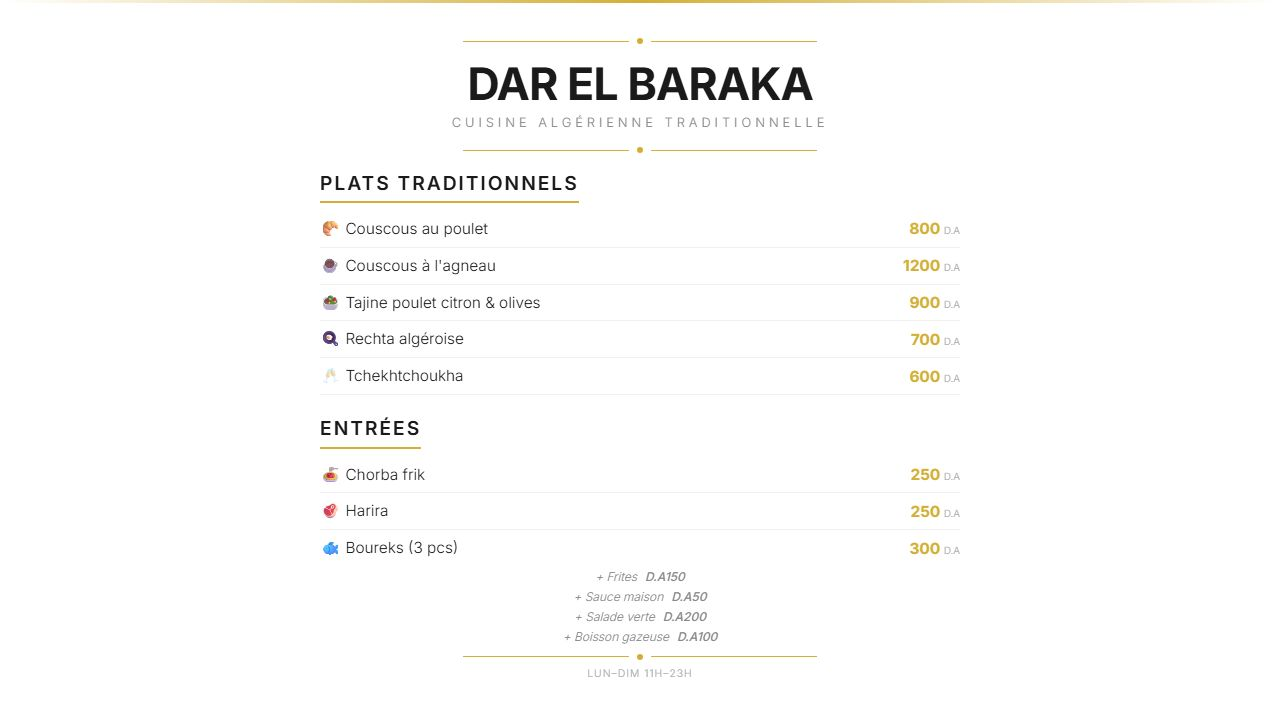
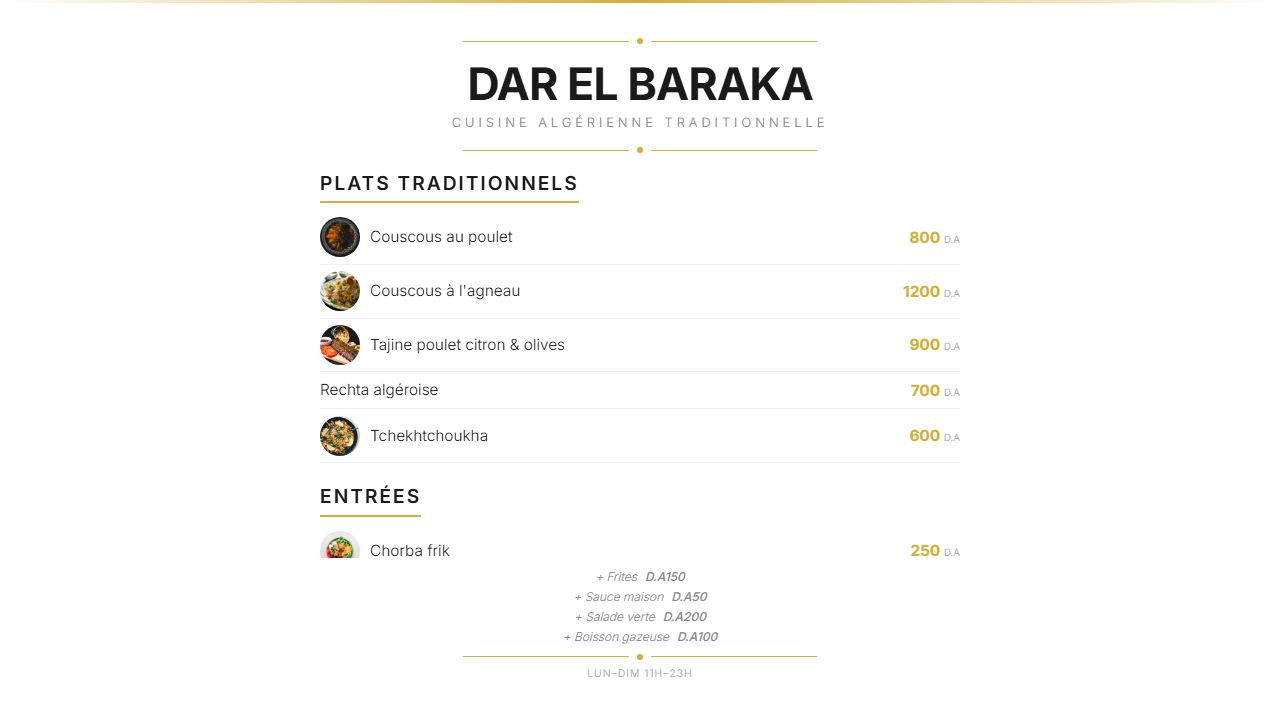
feat(shots): regenerate layout preview thumbnails including photoGrid, parchment, and digitalBoard

diff --git a/tv-display/src/sampleMenu.js b/tv-display/src/sampleMenu.js
@@ -13,25 +13,101 @@ export const sampleMenu = {
   heroLabel: 'Spécialité de la maison',
   allergyNote: 'Allergènes : gluten, lait, fruits à coque',
   pricingNote: 'Prix en D.A — service compris',
+  boardConfig: {
+    slots: [
+      {
+        title: 'برجر كلاسيك فاخر',
+        subtitle: 'Classic Burger Gourmet',
+        price: '650',
+        imageUrl: 'https://images.unsplash.com/photo-1568901346375-23c9450c58cd?w=800&auto=format&fit=crop&q=80',
+        priceType: 'single',
+      },
+      {
+        title: 'بيتزا مارغريتا إيطالية',
+        subtitle: 'Pizza Margherita',
+        price: '750',
+        imageUrl: 'https://images.unsplash.com/photo-1604382355076-af4b0eb60143?w=800&auto=format&fit=crop&q=80',
+        priceType: 'single',
+      },
+      {
+        title: 'سندويش بانيني دجاج',
+        subtitle: 'Panini Poulet Grillé',
+        price: '450',
+        imageUrl: 'https://images.unsplash.com/photo-1528735602780-2552fd46c7af?w=800&auto=format&fit=crop&q=80',
+        priceType: 'single',
+      },
+      {
+        title: 'تاكوس فرنسي الأصيل',
+        subtitle: 'French Tacos Spécial',
+        price: '550',
+        imageUrl: 'https://images.unsplash.com/photo-1565299585323-38d6b0865b47?w=800&auto=format&fit=crop&q=80',
+        priceType: 'single',
+      },
+      {
+        title: 'مشاوي مشكلة فاخرة',
+        subtitle: 'Brochettes Mixtes Grillées',
+        imageUrl: 'https://images.unsplash.com/photo-1555939594-58d7cb561ad1?w=800&auto=format&fit=crop&q=80',
+        priceType: 'multiple',
+        priceRows: [
+          { label: 'سياخ لحم غنم', price: '900' },
+          { label: 'سياخ دجاج متبل', price: '700' },
+          { label: 'طبق عائلي مشكل', price: '1600' },
+        ],
+      },
+      {
+        title: 'دجاج محمر مع بطاطا',
+        subtitle: 'Poulet Rôti & Frites',
+        imageUrl: 'https://images.unsplash.com/photo-1598103442097-8b74394b95c6?w=800&auto=format&fit=crop&q=80',
+        priceType: 'multiple',
+        priceRows: [
+          { label: 'ربع دجاجة محمرة', price: '350' },
+          { label: 'نصف دجاجة محمرة', price: '650' },
+          { label: 'دجاجة كاملة عائلية', price: '1200' },
+        ],
+      },
+      {
+        title: 'شاورما عربي سبيسيال',
+        subtitle: 'Shawarma Royale',
+        imageUrl: 'https://images.unsplash.com/photo-1633321702518-7feccafb94d5?w=800&auto=format&fit=crop&q=80',
+        priceType: 'multiple',
+        priceRows: [
+          { label: 'سندويش عادي', price: '300' },
+          { label: 'سندويش دوبل جبن', price: '400' },
+          { label: 'صحن عربي مع مقبلات', price: '750' },
+        ],
+      },
+      {
+        title: 'بطاطا مقلية مقرمشة',
+        subtitle: 'Frites & Sauces Maison',
+        imageUrl: 'https://images.unsplash.com/photo-1576107232684-1279f3908594?w=800&auto=format&fit=crop&q=80',
+        priceType: 'multiple',
+        priceRows: [
+          { label: 'حجم متوسط', price: '150' },
+          { label: 'حجم كبير مع جبن', price: '250' },
+          { label: 'بوكس عائلي سبيسيال', price: '450' },
+        ],
+      },
+    ],
+  },
   categories: [
     {
       name: 'Plats Traditionnels',
       items: [
-        { name: 'Couscous au poulet', price: '800', description: 'Semoule, poulet fermier, légumes de saison', tag: 'Best Seller' },
-        { name: "Couscous à l'agneau", price: '1200', description: 'Agneau fondant, pois chiches, bouillon parfumé', tag: 'Signature' },
-        { name: 'Tajine poulet citron & olives', price: '900', description: 'Poulet confit, citron confit, olives vertes' },
-        { name: 'Rechta algéroise', price: '700', description: 'Pâtes fraîches, poulet, pois chiches, cannelle' },
-        { name: 'Tchekhtchoukha', price: '600', description: 'Pain déchiré, sauce tomate relevée, poivrons' },
+        { name: 'Couscous au poulet', price: '800', description: 'Semoule, poulet fermier, légumes de saison', tag: 'Best Seller', imageUrl: 'https://images.unsplash.com/photo-1541518763669-27fef04b14ea?w=800&q=80' },
+        { name: "Couscous à l'agneau", price: '1200', description: 'Agneau fondant, pois chiches, bouillon parfumé', tag: 'Signature', imageUrl: 'https://images.unsplash.com/photo-1589302168068-964664d93dc0?w=800&q=80' },
+        { name: 'Tajine poulet citron & olives', price: '900', description: 'Poulet confit, citron confit, olives vertes', imageUrl: 'https://images.unsplash.com/photo-1544025162-d76694265947?w=800&q=80' },
+        { name: 'Rechta algéroise', price: '700', description: 'Pâtes fraîches, poulet, pois chiches, cannelle', imageUrl: 'https://images.unsplash.com/photo-1621996346565-e3d5d6281691?w=800&q=80' },
+        { name: 'Tchekhtchoukha', price: '600', description: 'Pain déchiré, sauce tomate relevée, poivrons', imageUrl: 'https://images.unsplash.com/photo-1512058564366-18510be2db19?w=800&q=80' },
       ],
     },
     {
       name: 'Entrées',
       items: [
-        { name: 'Chorba frik', price: '250', description: 'Soupe au blé vert, tomate, coriandre' },
-        { name: 'Harira', price: '250', description: 'Soupe algéroise aux herbes et légumes' },
-        { name: 'Boureks (3 pcs)', price: '300', description: 'Feuilletés croustillants à la viande' },
-        { name: 'Mhadjeb', price: '150', description: 'Crêpe feuilletée farcie à l’oignon et tomate' },
-        { name: 'Salade mechouia', price: '200', description: 'Poivrons grillés, tomates, ail, huile d’olive' },
+        { name: 'Chorba frik', price: '250', description: 'Soupe au blé vert, tomate, coriandre', imageUrl: 'https://images.unsplash.com/photo-1546069901-ba9599a7e63c?w=800&q=80' },
+        { name: 'Harira', price: '250', description: 'Soupe algéroise aux herbes et légumes', imageUrl: 'https://images.unsplash.com/photo-1547592166-23ac45744acd?w=800&q=80' },
+        { name: 'Boureks (3 pcs)', price: '300', description: 'Feuilletés croustillants à la viande', imageUrl: 'https://images.unsplash.com/photo-1633321702518-7feccafb94d5?w=800&q=80' },
+        { name: 'Mhadjeb', price: '150', description: 'Crêpe feuilletée farcie à l’oignon et tomate', imageUrl: 'https://images.unsplash.com/photo-1565299585323-38d6b0865b47?w=800&q=80' },
+        { name: 'Salade mechouia', price: '200', description: 'Poivrons grillés, tomates, ail, huile d’olive', imageUrl: 'https://images.unsplash.com/photo-1512621776951-a57141f2eefd?w=800&q=80' },
       ],
     },
     {
@@ -43,31 +119,31 @@ export const sampleMenu = {
         { name: 'Boisson gazeuse', price: '100' },
       ],
       items: [
-        { name: "Brochettes d'agneau", price: '1000', description: 'Brochettes marinées, servies avec pain' },
-        { name: 'Merguez grillées', price: '500', description: 'Merguez maison, harissa douce' },
-        { name: 'Poulet grillé', price: '850', description: 'Poulet entier mariné, frites maison' },
-        { name: 'Entrecôte grillée', price: '2000', description: 'Entrecôte charnue, sauce au poivre' },
-        { name: 'Kefta maison', price: '700', description: 'Boulettes de bœuf épicées, sauce tomate' },
+        { name: "Brochettes d'agneau", price: '1000', description: 'Brochettes marinées, servies avec pain', imageUrl: 'https://images.unsplash.com/photo-1555939594-58d7cb561ad1?w=800&q=80' },
+        { name: 'Merguez grillées', price: '500', description: 'Merguez maison, harissa douce', imageUrl: 'https://images.unsplash.com/photo-1555939594-58d7cb561ad1?w=800&q=80' },
+        { name: 'Poulet grillé', price: '850', description: 'Poulet entier mariné, frites maison', imageUrl: 'https://images.unsplash.com/photo-1598103442097-8b74394b95c6?w=800&q=80' },
+        { name: 'Entrecôte grillée', price: '2000', description: 'Entrecôte charnue, sauce au poivre', imageUrl: 'https://images.unsplash.com/photo-1558030006-450675393462?w=800&q=80' },
+        { name: 'Kefta maison', price: '700', description: 'Boulettes de bœuf épicées, sauce tomate', imageUrl: 'https://images.unsplash.com/photo-1529692236671-f1f6cf9683ba?w=800&q=80' },
       ],
     },
     {
       name: 'Sandwichs & Pizzas',
       items: [
-        { name: 'Burger maison', price: '600', description: 'Steak haché, cheddar, sauce algérienne' },
-        { name: 'Sandwich merguez-frites', price: '400', description: 'Merguez, frites, sauce maison' },
-        { name: 'Pizza margherita', price: '700', description: 'Tomate, mozzarella, basilic' },
-        { name: 'Calzone', price: '900', description: 'Pizza fourrée, jambon et fromage' },
-        { name: 'Wrap au poulet', price: '500', description: 'Poulet grillé, crudités, sauce blanche' },
+        { name: 'Burger maison', price: '600', description: 'Steak haché, cheddar, sauce algérienne', imageUrl: 'https://images.unsplash.com/photo-1568901346375-23c9450c58cd?w=800&q=80' },
+        { name: 'Sandwich merguez-frites', price: '400', description: 'Merguez, frites, sauce maison', imageUrl: 'https://images.unsplash.com/photo-1528735602780-2552fd46c7af?w=800&q=80' },
+        { name: 'Pizza margherita', price: '700', description: 'Tomate, mozzarella, basilic', imageUrl: 'https://images.unsplash.com/photo-1604382355076-af4b0eb60143?w=800&q=80' },
+        { name: 'Calzone', price: '900', description: 'Pizza fourrée, jambon et fromage', imageUrl: 'https://images.unsplash.com/photo-1513104890138-7c749659a591?w=800&q=80' },
+        { name: 'Wrap au poulet', price: '500', description: 'Poulet grillé, crudités, sauce blanche', imageUrl: 'https://images.unsplash.com/photo-1565299585323-38d6b0865b47?w=800&q=80' },
       ],
     },
     {
       name: 'Desserts & Boissons',
       items: [
-        { name: 'Baklawa', price: '300', description: 'Feuilleté aux amandes, miel' },
-        { name: 'Makrout', price: '250', description: 'Semoule, dattes, miel' },
-        { name: 'Crêpes au miel', price: '350', description: 'Crêpe chaude, miel, beurre' },
-        { name: 'Thé à la menthe', price: '150', description: 'Thé vert, menthe fraîche' },
-        { name: "Jus d'orange pressé", price: '300', description: 'Orange fraîche pressée' },
+        { name: 'Baklawa', price: '300', description: 'Feuilleté aux amandes, miel', imageUrl: 'https://images.unsplash.com/photo-1519869325930-281384150729?w=800&q=80' },
+        { name: 'Makrout', price: '250', description: 'Semoule, dattes, miel', imageUrl: 'https://images.unsplash.com/photo-1555507036-ab1f4038808a?w=800&q=80' },
+        { name: 'Crêpes au miel', price: '350', description: 'Crêpe chaude, miel, beurre', imageUrl: 'https://images.unsplash.com/photo-1584776296944-ab6fb57b0bdd?w=800&q=80' },
+        { name: 'Thé à la menthe', price: '150', description: 'Thé vert, menthe fraîche', imageUrl: 'https://images.unsplash.com/photo-1597481499750-3e6b22637e12?w=800&q=80' },
+        { name: "Jus d'orange pressé", price: '300', description: 'Orange fraîche pressée', imageUrl: 'https://images.unsplash.com/photo-1513558161293-cdaf765ed2fd?w=800&q=80' },
       ],
     },
   ],

diff --git a/tv-display/src/demo/demoData.js b/tv-display/src/demo/demoData.js
@@ -12,6 +12,82 @@ export const DEMO_MENU = {
   heroDescription: 'Thé vert royal infusé à la menthe fraîche et pignons.',
   heroLabel: 'Spécialité Maison',
   heroPrice: 150,
+  boardConfig: {
+    slots: [
+      {
+        title: 'برجر كلاسيك فاخر',
+        subtitle: 'Classic Burger Gourmet',
+        price: '650',
+        imageUrl: 'https://images.unsplash.com/photo-1568901346375-23c9450c58cd?w=800&auto=format&fit=crop&q=80',
+        priceType: 'single',
+      },
+      {
+        title: 'بيتزا مارغريتا إيطالية',
+        subtitle: 'Pizza Margherita',
+        price: '750',
+        imageUrl: 'https://images.unsplash.com/photo-1604382355076-af4b0eb60143?w=800&auto=format&fit=crop&q=80',
+        priceType: 'single',
+      },
+      {
+        title: 'سندويش بانيني دجاج',
+        subtitle: 'Panini Poulet Grillé',
+        price: '450',
+        imageUrl: 'https://images.unsplash.com/photo-1528735602780-2552fd46c7af?w=800&auto=format&fit=crop&q=80',
+        priceType: 'single',
+      },
+      {
+        title: 'تاكوس فرنسي الأصيل',
+        subtitle: 'French Tacos Spécial',
+        price: '550',
+        imageUrl: 'https://images.unsplash.com/photo-1565299585323-38d6b0865b47?w=800&auto=format&fit=crop&q=80',
+        priceType: 'single',
+      },
+      {
+        title: 'مشاوي مشكلة فاخرة',
+        subtitle: 'Brochettes Mixtes Grillées',
+        imageUrl: 'https://images.unsplash.com/photo-1555939594-58d7cb561ad1?w=800&auto=format&fit=crop&q=80',
+        priceType: 'multiple',
+        priceRows: [
+          { label: 'سياخ لحم غنم', price: '900' },
+          { label: 'سياخ دجاج متبل', price: '700' },
+          { label: 'طبق عائلي مشكل', price: '1600' },
+        ],
+      },
+      {
+        title: 'دجاج محمر مع بطاطا',
+        subtitle: 'Poulet Rôti & Frites',
+        imageUrl: 'https://images.unsplash.com/photo-1598103442097-8b74394b95c6?w=800&auto=format&fit=crop&q=80',
+        priceType: 'multiple',
+        priceRows: [
+          { label: 'ربع دجاجة محمرة', price: '350' },
+          { label: 'نصف دجاجة محمرة', price: '650' },
+          { label: 'دجاجة كاملة عائلية', price: '1200' },
+        ],
+      },
+      {
+        title: 'شاورما عربي سبيسيال',
+        subtitle: 'Shawarma Royale',
+        imageUrl: 'https://images.unsplash.com/photo-1633321702518-7feccafb94d5?w=800&auto=format&fit=crop&q=80',
+        priceType: 'multiple',
+        priceRows: [
+          { label: 'سندويش عادي', price: '300' },
+          { label: 'سندويش دوبل جبن', price: '400' },
+          { label: 'صحن عربي مع مقبلات', price: '750' },
+        ],
+      },
+      {
+        title: 'بطاطا مقلية مقرمشة',
+        subtitle: 'Frites & Sauces Maison',
+        imageUrl: 'https://images.unsplash.com/photo-1576107232684-1279f3908594?w=800&auto=format&fit=crop&q=80',
+        priceType: 'multiple',
+        priceRows: [
+          { label: 'حجم متوسط', price: '150' },
+          { label: 'حجم كبير مع جبن', price: '250' },
+          { label: 'بوكس عائلي سبيسيال', price: '450' },
+        ],
+      },
+    ],
+  },
   categories: [
     {
       id: 'chaud',
